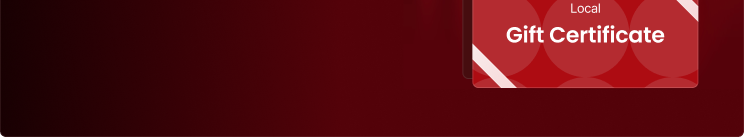
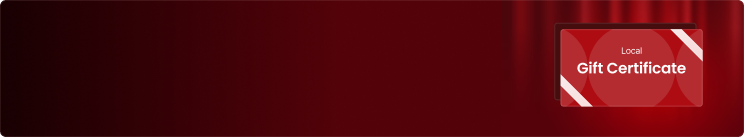
Add real Gift design B single-M background
Replace the derived crop with the real asset for gift-single-m-b.png
(744x137), completing the design B set.

Claude-Session: https://claude.ai/code/session_01YXECt2NaFrx8J2pQTHR2Ft

Changed region(s): [[0.6183, 0.0, 1.0, 1.0], [0.0, 0.0, 0.0309, 0.0292]]

diff --git a/src/components/promotion/GiftBlock.jsx b/src/components/promotion/GiftBlock.jsx
@@ -13,8 +13,6 @@ import giftDoubleLB from '../../assets/figma/benefit-bg/gift-double-l-b.png'
 import qrDoubleM from '../../assets/figma/benefit-bg/qr-double-m.png'
 import qrDoubleL from '../../assets/figma/benefit-bg/qr-double-l.png'
 
-// gift-single-m-b.png is a derived crop of gift-single-l-b.png (no dedicated
-// asset was provided for that slot) — swap it out if a real one arrives.
 const GIFT_BG = {
   A: { singleM: giftSingleM, singleL: giftSingleL, doubleM: giftDoubleM, doubleL: giftDoubleL },
   B: { singleM: giftSingleMB, singleL: giftSingleLB, doubleM: giftDoubleMB, doubleL: giftDoubleLB },
